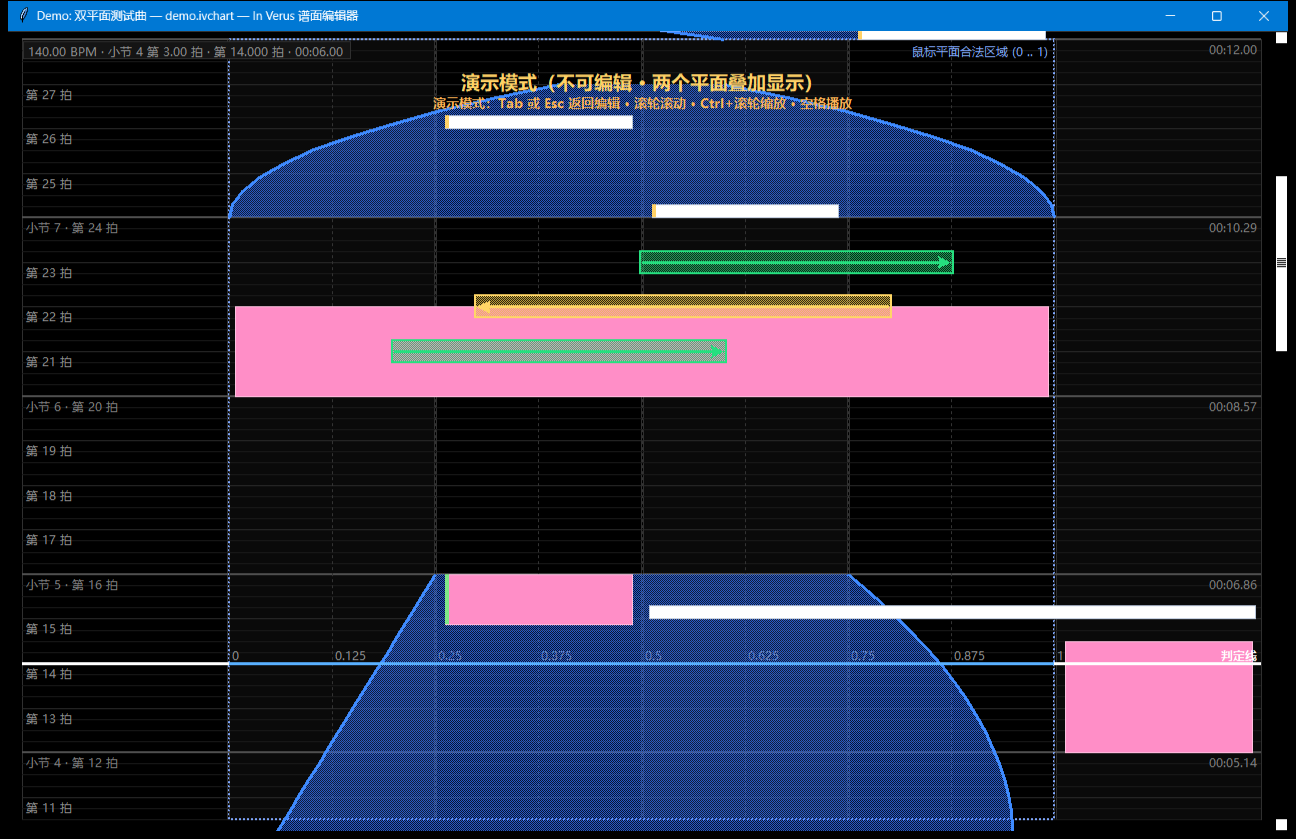
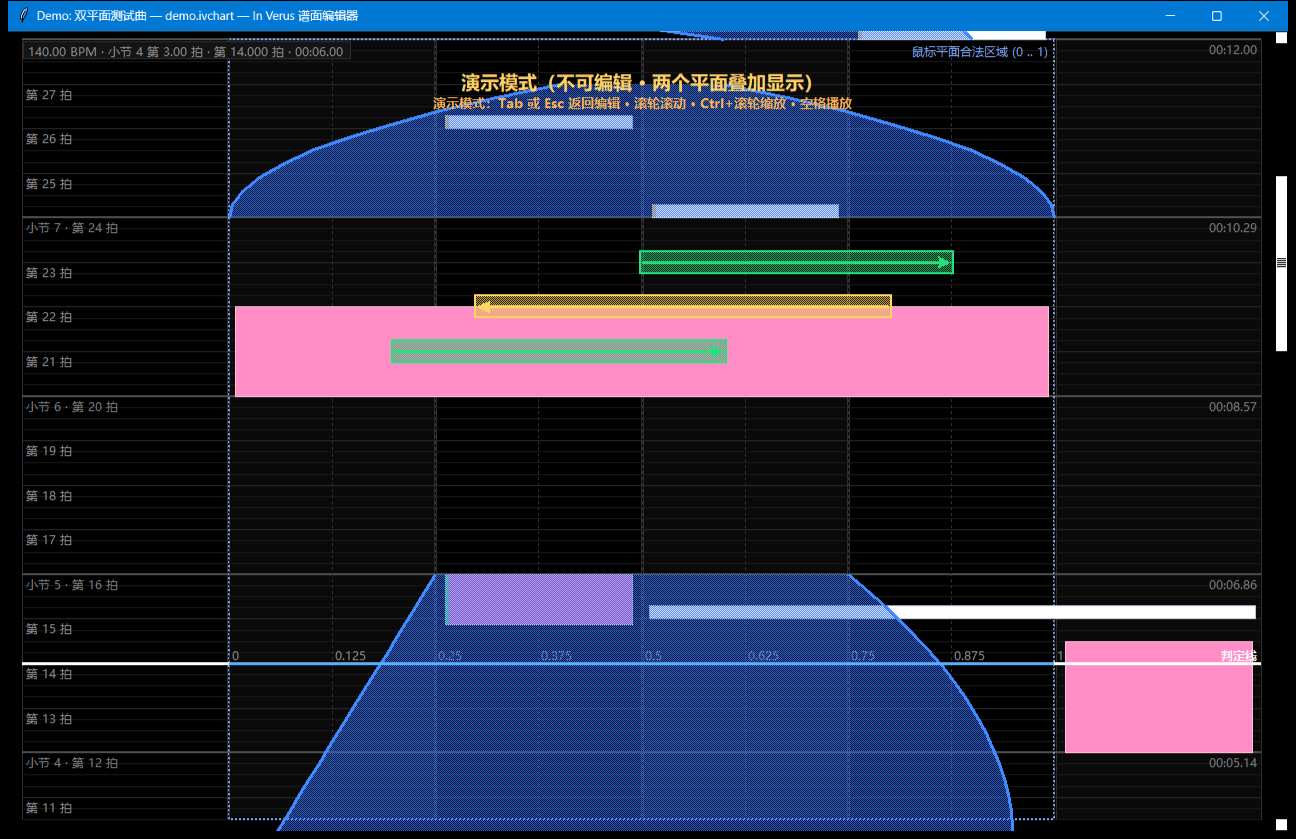
feat(render): 物件图层按可读性重排（多轨长按→单轨长按→多轨单键→单轨单键→空域→滑键）
- Renderer._draw_notes 按六层绘制：多轨长按/单轨长按/多轨单键/单轨单键/空域/滑键，非法重叠时小按键在上、空域与滑键最上

- 命中优先级 geometry._depth 同步为同一顺序（滑键 > 空域 > 单轨单键 > 多轨单键 > 单轨长按 > 多轨长按）

- 图层编号重排（判定线 10 / 预览 11-12 / HUD 13）；修正批量替换时误删的 _draw_notes 调用

- 测试 176 项全部通过（新增两条：六层绘制顺序、命中优先级与图层一致）；SPEC/DESIGN/VERIFICATION/CHANGELOG 与截图同步

diff --git a/src/rhythm_editor/ui/renderer.py b/src/rhythm_editor/ui/renderer.py
@@ -7,8 +7,12 @@
 * 演示模式（``LAYOUT_OVERLAY``）：只有一个区域，鼠标平面叠加在 6K 的中间四条轨道上。
 
 渲染顺序（自下而上）：
-背景 -> 区域底色 / 轨道 -> 时间网格 -> 合法区域边界 -> 横向辅助网格 -> 物件
+背景 -> 区域底色 / 轨道 -> 时间网格 -> 合法区域边界 -> 横向辅助网格
+-> 物件（多轨长按 -> 单轨长按 -> 多轨单键 -> 单轨单键 -> 空域 -> 滑键）
 -> 判定线 -> 区域标题 -> 预览幽灵 / 橡皮筋 -> HUD
+
+物件的六层顺序刻意“从大到小”摆放：即使谱面故意写成非法重叠，
+小按键也压在长按之上、半透明空域与滑键再压在 6K 物件之上，交叠处依然可读。
 
 时间轴导航由右侧朴素的竖向滚动条负责（不在画布上画总览条）。
 """
@@ -116,7 +120,7 @@ class Renderer:
             self._draw_split_view(chart, view, state, beat_low, beat_high)
         else:
             self._draw_overlay_view(chart, view, state, beat_low, beat_high)
-        scene.set_layer(11)
+        scene.set_layer(13)
         self._draw_hud(chart, view, state)
         scene.end()
 
@@ -169,16 +173,16 @@ class Renderer:
         self._draw_horizontal_grid(chart, view)
         self.scene.set_layer(4)
         self._draw_notes(chart, view, state)
-        self.scene.set_layer(7)
+        self.scene.set_layer(10)
         self._draw_judgment_line(view, state, *layout.pane_6k, "judge", accent=False, label="判定线")
         self._draw_judgment_line(
             view, state, *layout.pane_mouse, "judge-mouse", accent=True, label="鼠标判定线"
         )
         self._draw_pane_titles(view)
         if not state.demo:
-            self.scene.set_layer(8)
+            self.scene.set_layer(11)
             self._draw_pending(chart, view, state)
-            self.scene.set_layer(9)
+            self.scene.set_layer(12)
             self._draw_rubber_band(state)
 
     def _draw_overlay_view(
@@ -198,7 +202,7 @@ class Renderer:
         self._draw_horizontal_grid(chart, view)
         self.scene.set_layer(4)
         self._draw_notes(chart, view, state)
-        self.scene.set_layer(7)
+        self.scene.set_layer(10)
         self._draw_judgment_line(
             view, state, layout.play_left, layout.play_right, "judge", accent=False, label="判定线"
         )
@@ -206,9 +210,9 @@ class Renderer:
             view, state, layout.mouse_left, layout.mouse_right, "judge-mouse", accent=True
         )
         if not state.demo:
-            self.scene.set_layer(8)
+            self.scene.set_layer(11)
             self._draw_pending(chart, view, state)
-            self.scene.set_layer(9)
+            self.scene.set_layer(12)
             self._draw_rubber_band(state)
 
     def _draw_pane_titles(self, view: ViewState) -> None:
@@ -465,16 +469,34 @@ class Renderer:
         self._hit_entries = cache.entries
         self._hit_entries.clear()
         cache.signature = hit_signature(view)
-        # 绘制顺序：停留区域（半透明，最底层）→ 6K 物件 → 滑键（最上层）
+        # 图层顺序（自下而上）：多轨长按 → 单轨长按 → 多轨单键 → 单轨单键 → 空域 → 滑键
+        # 这样即使谱面故意写成非法重叠，小按键也压在长按之上、空域与滑键再压在最上面，交叠处依然可读。
+        def multi_hold(note: Note) -> bool:
+            return isinstance(note, LaneNote) and note.is_hold and note.is_multi
+
+        def single_hold(note: Note) -> bool:
+            return isinstance(note, LaneNote) and note.is_hold and not note.is_multi
+
+        def multi_tap(note: Note) -> bool:
+            return isinstance(note, LaneNote) and not note.is_hold and note.is_multi
+
+        def single_tap(note: Note) -> bool:
+            return isinstance(note, LaneNote) and not note.is_hold and not note.is_multi
+
         layers = (
-            (MouseRegion, 4, lambda n, s: self._draw_region(n, chart, view, s, y_min, y_max, region_samples)),
-            (LaneNote, 5, lambda n, s: self._draw_lane_note(n, chart, view, s, y_min, y_max)),
-            (MouseSlide, 6, lambda n, s: self._draw_slide(n, chart, view, s, y_min, y_max)),
+            (4, multi_hold, lambda n, s: self._draw_lane_note(n, chart, view, s, y_min, y_max)),
+            (5, single_hold, lambda n, s: self._draw_lane_note(n, chart, view, s, y_min, y_max)),
+            (6, multi_tap, lambda n, s: self._draw_lane_note(n, chart, view, s, y_min, y_max)),
+            (7, single_tap, lambda n, s: self._draw_lane_note(n, chart, view, s, y_min, y_max)),
+            (8, lambda n: isinstance(n, MouseRegion),
+                lambda n, s: self._draw_region(n, chart, view, s, y_min, y_max, region_samples)),
+            (9, lambda n: isinstance(n, MouseSlide),
+                lambda n, s: self._draw_slide(n, chart, view, s, y_min, y_max)),
         )
-        for note_type, layer, draw in layers:
+        for layer, matches, draw in layers:
             self.scene.set_layer(layer)
             for note in notes:
-                if not isinstance(note, note_type):
+                if not matches(note):
                     continue
                 if not note_in_time(note, view.current_beat):
                     continue  # 判定时间已过 -> 不再显示

diff --git a/tests/test_editor_smoke.py b/tests/test_editor_smoke.py
@@ -19,6 +19,7 @@ from rhythm_editor.model.chart import Chart
 from rhythm_editor.model.document import Document
 from rhythm_editor.model.notes import BoundaryCurve, LaneNote, MouseRegion, MouseSlide
 from rhythm_editor.ui.interactions import ToolController
+from rhythm_editor.ui.geometry import notes_at
 from rhythm_editor.ui.renderer import RenderState, Renderer
 from rhythm_editor.ui.scene import Scene
 from rhythm_editor.ui.theme import DARK
@@ -280,6 +281,56 @@ class EditorSmokeTest(unittest.TestCase):
         pane_bg = self.scene._items["pane6:bg"][0]
         note_item = self.scene._items[f"note:{note_id}"][0]
         self.assertGreater(order.index(note_item), order.index(pane_bg), "物件必须画在区域底色之上")
+
+    def test_note_layer_order_matches_readability_spec(self) -> None:
+        """图层自下而上：多轨长按 → 单轨长按 → 多轨单键 → 单轨单键 → 空域 → 滑键。"""
+        notes = [
+            LaneNote("MH", 1, 4, 0.0, 4.0),          # 多轨长按
+            LaneNote("SH", 2, 2, 0.0, 4.0),          # 单轨长按
+            LaneNote("MT", 1, 3, 2.0),               # 多轨单键
+            LaneNote("ST", 2, 2, 2.0),               # 单轨单键
+            MouseRegion("RG", 0.0, 4.0, BoundaryCurve(0.0, 0.0), BoundaryCurve(1.0, 1.0)),
+            MouseSlide("SL", 2.0, 0.2, 0.8),
+        ]
+        for note in notes:
+            self.chart.add(note)
+        self.view.set_beat(0.0)
+        self.draw()
+        order = list(self.canvas.find_all())
+
+        def index(key: str) -> int:
+            return order.index(self.scene._items[key][0])
+
+        self.assertLess(index("note:MH"), index("note:SH"))
+        self.assertLess(index("note:SH"), index("note:MT"))
+        self.assertLess(index("note:MT"), index("note:ST"))
+        self.assertLess(index("note:ST"), index("region:RG"))
+        self.assertLess(index("region:RG"), index("slide:SL"))
+
+    def test_hit_priority_follows_layer_order(self) -> None:
+        """点击命中的优先顺序与图层一致：滑键 > 空域 > 单轨单键 > 多轨单键 > 单轨长按 > 多轨长按。"""
+        hold_multi = LaneNote("MH", 1, 4, 0.0, 4.0)
+        hold_single = LaneNote("SH", 2, 2, 0.0, 4.0)
+        tap_multi = LaneNote("MT", 1, 3, 2.0)
+        tap_single = LaneNote("ST", 2, 2, 2.0)
+        region = MouseRegion("RG", 0.0, 4.0, BoundaryCurve(0.0, 0.0), BoundaryCurve(1.0, 1.0))
+        slide = MouseSlide("SL", 2.0, 0.2, 0.8)
+        for note in (hold_multi, hold_single, tap_multi, tap_single, region, slide):
+            self.chart.add(note)
+        self.view.set_beat(0.0)
+        # 6K 区域：单轨单键最靠上
+        lane_x = self.view.layout.lane_center(2)
+        lane_hits = notes_at(self.chart, self.view, lane_x, self.y_of_beat(2.0))
+        ids = [note.id for note in lane_hits]
+        self.assertIn("ST", ids[:2])
+        self.assertLess(ids.index("ST"), ids.index("SH"))
+        self.assertLess(ids.index("ST"), ids.index("MH"))
+        # 鼠标平面：滑键最靠上，其次空域
+        mouse_hits = notes_at(
+            self.chart, self.view, self.view.norm_to_x(0.2), self.y_of_beat(2.0)
+        )
+        mouse_ids = [note.id for note in mouse_hits]
+        self.assertEqual(mouse_ids[:2], ["SL", "RG"])
 
     def test_notes_hidden_after_judgment_time(self) -> None:
         """显示规则：判定线越过判定时刻后不再显示（长按 / 区域按结束时刻）。"""

diff --git a/src/rhythm_editor/ui/geometry.py b/src/rhythm_editor/ui/geometry.py
@@ -38,12 +38,23 @@ def hit_signature(view: ViewState) -> tuple:
 
 
 def _depth(note: Note) -> int:
-    """命中优先级（与渲染层一致）：滑键 > 6K 物件 > 空域。"""
+    """命中优先级 = 渲染图层顺序（越大越靠上）：
+
+    滑键 > 空域 > 单轨单键 > 多轨单键 > 单轨长按 > 多轨长按。
+    """
     if isinstance(note, MouseSlide):
-        return 3
+        return 6
+    if isinstance(note, MouseRegion):
+        return 5
     if isinstance(note, LaneNote):
-        return 2
-    return 1
+        if not note.is_hold and not note.is_multi:
+            return 4
+        if not note.is_hold and note.is_multi:
+            return 3
+        if note.is_hold and not note.is_multi:
+            return 2
+        return 1
+    return 0
 
 
 @dataclass

diff --git a/docs/VERIFICATION.md b/docs/VERIFICATION.md
@@ -113,7 +113,7 @@ python tools/check_audio.py
 
 | 项目 | 命令 | 结果 |
 | --- | --- | --- |
-| 单元测试（含 Tk 画布冒烟测试与应用级测试） | `python -m unittest discover -s tests -t .` | Ran 174 tests — **OK** |
+| 单元测试（含 Tk 画布冒烟测试与应用级测试） | `python -m unittest discover -s tests -t .` | Ran 176 tests — **OK** |
 | 需求验收清单 | `python tools/acceptance.py` | 13 项全部 `[OK ]`，结论：全部通过 |
 | 音频后端 | `python tools/check_audio.py` | 9 项全部 `[OK ]`（pygame.mixer 真实播放，延迟补偿正确） |
 | 示例谱面生成 | `python run_editor.py --make-demo` | 生成 `charts/demo/demo.ivchart`（6K 32 / 区域 3 / 滑键 6 / 4 个速度组） |
@@ -207,6 +207,8 @@ python tools/check_audio.py
 | `tests/test_editor_smoke.py::test_region_samples_adapt_to_screen_height` | 空域采样点数随屏幕高度自适应 |
 | `tests/test_perf_hit.py`（6 条） | 命中缓存：只含可见物件、命中测试不再触碰整张谱面、视图变化回退全量、框选复用缓存、签名随视图/谱面变化 |
 | `tests/test_sorted_cache.py`（7 条） | 排序缓存：复用同一列表、增删 / 编辑自动失效、显式失效、分类列表、快照后缓存重建 |
+| `tests/test_editor_smoke.py::test_note_layer_order_matches_readability_spec` | 六层绘制顺序（画布图元次序）符合规格 |
+| `tests/test_editor_smoke.py::test_hit_priority_follows_layer_order` | 命中优先级与图层一致（滑键 > 空域 > 单轨单键 > …） |
 | `tests/test_app_flow.py::test_fullscreen_toggle` | 全屏开关切换 |
 | `tests/test_app_flow.py::test_maximized_by_default` | 默认最大化（`-fullscreen` 属性为 0），不是无边框全屏 |
 | `tests/test_app_flow.py::test_toggle_maximize_and_fullscreen` | 最大化 / 还原 / 全屏互斥切换 |

diff --git a/docs/DESIGN.md b/docs/DESIGN.md
@@ -129,6 +129,16 @@ y_note  = judgment_y − D(t) × 每拍像素
 绘制顺序：背景 → 轨道 → 合法区域边界 → 时间网格 → 横向辅助网格 → 物件
 → 判定线 → 幽灵预览 / 橡皮筋 → HUD 文字（时间轴导航交给右侧的 ttk 竖向滚动条）。
 
+物件内部固定为**六层，自下而上**（`Renderer._draw_notes`）：
+
+```
+多轨长按 → 单轨长按 → 多轨单键 → 单轨单键 → 空域 → 滑键
+```
+
+顺序刻意“从大到小”：即使谱面被有意写成非法重叠（长按里套按键、空域压住按键等），
+小按键也压在长按之上、半透明空域与滑键再压在最上面，交叠处依然可读。
+命中优先级（`geometry._depth`）与这套图层**完全一致**，保证“点到的就是你看到的”。
+
 物件的可见性有两道判据，二者互不替代：
 
 1. **像素范围**（`_draw_notes` 内按算出的 y / 多边形包围盒剔除）——

diff --git a/docs/SPEC.md b/docs/SPEC.md
@@ -162,6 +162,9 @@
 * 判定规则（供未来游玩器实现）：物件到达判定线时，在滑键范围内朝箭头方向滑动任意长度即可。
 * 显示：**向右**滑键为半透明**绿色** + 向右箭头，**向左**滑键为半透明**黄色** + 向左箭头
   （箭头始终从起点指向终点，与点击顺序一致）。
+* **物件图层（自下而上）**：多轨长按 → 单轨长按 → 多轨单键 → 单轨单键 → 空域 → 滑键。
+  这样即便谱面被有意写成非法重叠，小按键也压在长按之上、空域与滑键再压在最上面，
+  交叠处依然可读；点击命中的优先顺序与图层一致。
 * 长度显示：**方框严格按实际长度绘制**（不做任何拉伸），只有箭头保留最小长度限制，
   保证很短的滑键也能看清方向。
 * 放置预览：选择起点时只画**一根黄色虚线**标出即将放置的横向位置；选择终点时按方向给出

diff --git a/CHANGELOG.md b/CHANGELOG.md
@@ -50,6 +50,9 @@
 
 ### 变更
 
+* **物件图层顺序按可读性重排**（自下而上）：多轨长按 → 单轨长按 → 多轨单键 →
+  单轨单键 → 空域 → 滑键；命中优先级同步一致，非法重叠时也能看清每个物件。
+* **新增播放倍速**：顶栏右侧的 `［−］［当前倍速］［＋］`（替换原缩放按钮），
 * **新增播放倍速**：顶栏右侧的 `［−］［当前倍速］［＋］`（替换原缩放按钮），
   0.1x 一档、范围 0.1 ~ 1.0x。变速同时改变谱面推进速度与音频速度，
   **不改变绘制的物件间隔**（缩放不变）；音频用 WSOLA 时间伸缩，**音调不变**。
